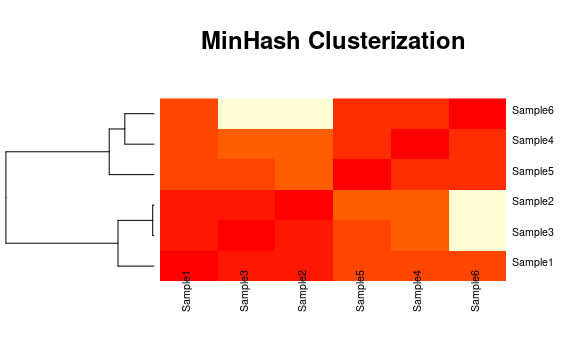
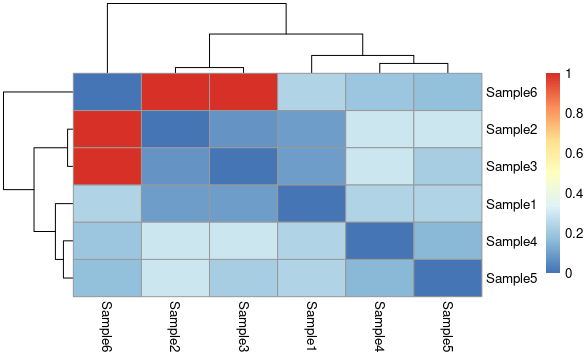
update minhash

diff --git a/README.md b/README.md
@@ -799,15 +799,15 @@ library(pheatmap)
 pheatmap(data)
 ```
 
-Vai obter um heatmap com clusterização similar a este:
+Vai obter um heatmap com clusterização:
 
 <img src="imgs/distances.png" align='center' width="80%">
 
-Faça *co-assembly* para *datasets* com distâncias menores de 0.1, entre
-ellas. Como pode ser observado, se formaram dois grandes cluster as
-amostras 1 a 3 e amostras 4 a 6. No entanto, os dois clusters são
-proóximos entre eles. Por tanto podem ser montados todos em um
-co-assembly só.
+Como pode ser observado, se formaram vários clusters, por exemplo
+Sample5, Sample4 e Sample1, Sample3 e 2, e Sample6 formou um cluster
+aparte. Assim, poderiam ser feitos dois co-assemblies e um assembly
+individual. No entanto para facilitar o processo no tutorial, será feito
+um co-assembly só, com todas as amostras.
 
 ## 2. Montagem dos Metagenomas
 
